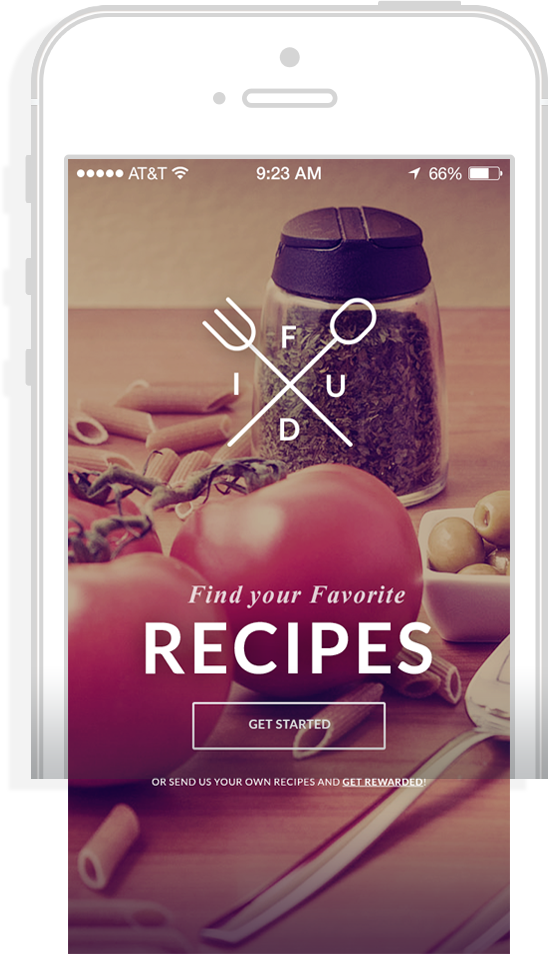
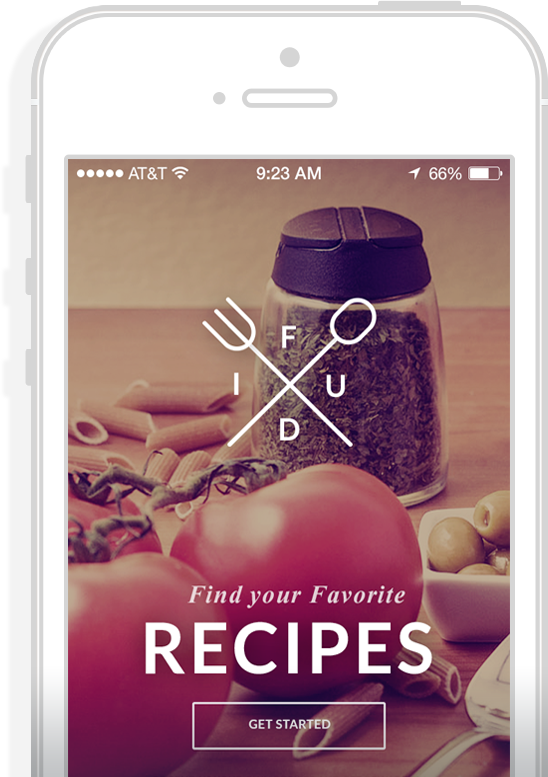
made last changes

diff --git a/styles/styles.css b/styles/styles.css
@@ -135,7 +135,7 @@ h2{
     font-weight: bold;
     text-transform: uppercase;
     letter-spacing: 0.05em;
-    margin: 8px 0 0 0;
+    margin: 0;
 }
 
 .icon_line{
@@ -201,8 +201,6 @@ h2{
 .feedback_all{
     background-image: url(../images/background.jpg);
     position: relative;
-    z-index: 1;
-    bottom: 180px; 
     text-align: center;
     background-size: cover;
     background-position: center center;
@@ -245,7 +243,6 @@ h2{
 
 .menu_all{
     position: relative;
-    bottom: 110px;
     text-align: center;
 }
 
@@ -253,10 +250,11 @@ h2{
     padding: 0;
     margin: 0;
     width: 100%; 
+    padding-top: 10vh; 
 }
 
 .menu-list{
-    padding: 15px 0 0 0;
+    padding: 30px 0 0 0;
 }
 
 .menu-list-all{
@@ -339,4 +337,76 @@ h2{
 .menu-list-item_10{
     background-image: url(../images/american.png);
 }
+
+.information{
+    display: block;
+    margin: 50px 0;
+    padding: 0;
+    font-size: 0;
+}
+
+.data-information{
+    display: inline-block;
+    width: 20%;
+}
+
+.data-number{
+    font-size: 2.25rem;
+    font-weight: bold;
+    letter-spacing: 0.05em;
+    margin: 0;
+}
+
+.data-text{
+    font-size: 1rem;
+    color: #000;
+    letter-spacing: 0.05em;
+    font-weight: lighter;
+    margin: 0;
+}
+
 /* end menu */
+
+/* start footer */
+
+.footer{
+    background-color: #f7f7f7;
+    position: relative;
+    padding: 20px 0;
+}
+
+.ba-footer{
+    display: flex;
+    justify-content: space-between;
+    align-items: center; 
+}
+
+.left-text{
+    font-size: 0.875rem;
+    color: #000;
+    letter-spacing: 0.05em;
+    font-weight: lighter;
+    margin: 0;
+    opacity: 0.4;
+}
+
+.right-text{
+    font-size: 0.875rem;
+    color: #000;
+    letter-spacing: 0.20em;
+    font-weight: lighter;
+    opacity: 0.5;
+}
+
+a.footer_link{
+    font-size: 0.875rem;
+    color: #000;
+    letter-spacing: 0.20em;
+    font-weight: bold;
+}
+
+a.footer_link:hover{
+    color: red;
+}
+
+/* end footer */

diff --git a/index.html b/index.html
@@ -168,8 +168,42 @@
                 </ul>
             </div>
         </div>
+        <div class="container">
+            <ul class="information">
+                <li class="data-information">
+                    <p class="data-number">23,567</p>
+                    <p class="data-text">Recipes Available</p>
+                </li>
+                <li class="data-information">
+                    <p class="data-number">431,729</p>
+                    <p class="data-text">Active Users</p>
+                </li>
+                <li class="data-information">
+                    <p class="data-number">892,173</p>
+                    <p class="data-text">Positive Reviews</p>
+                </li>
+                <li class="data-information">
+                    <p class="data-number">56,581</p>
+                    <p class="data-text">Photos & Videos</p>
+                </li>
+                <li class="data-information">
+                    <p class="data-number">3,182</p>
+                    <p class="data-text">Spices and Herbs</p>
+                </li>
+            </ul>
+        </div>
     </section>
     <!-- end menu -->
     </main>
+    <!-- start footer -->
+    <footer class="footer">
+        <div class="container">
+            <div class="ba-footer">
+                <p class="left-text">©2014 Fudi. All Rights Reserved.</p>
+                <p class="right-text" >DESIGN BY: <a class="footer_link" href="https://www.bekades.com" target="blank">WWW.BEKADES.COM</a></p>
+            </div>
+        </div>
+    </footer> 
+    <!-- end footer -->
 </body>
 </html>
